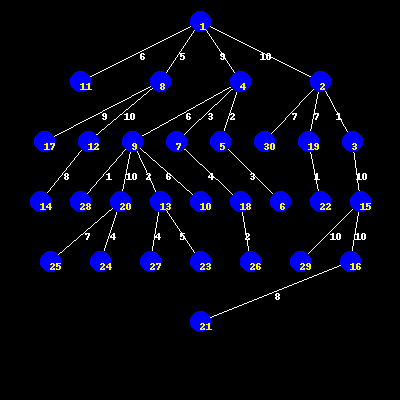
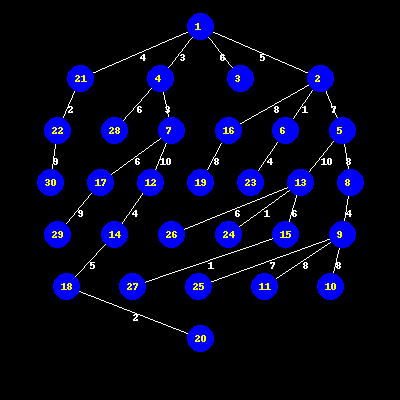
Bug fixes: Distinct random array, help errors and graph text not being very centred

diff --git a/Help.py b/Help.py
@@ -173,7 +173,7 @@ help_list = {
     """
     ```\n
     RAND->(num, low, high, type)\n
-    This command generates num numbers from low to high + 1. The type can be "RAND", "DISTINCT" or "OUTLIER". "RAND" just generates randomly, "DISTINCT" generates all distinct numbers and "OUTLIER" makes sure that high is in the list and that it is larger than all the other numbers in the list. "DISTINCT" will return error if there aren't enough numbers and "OUTLIER" may not have an outlier greater than the sum of all other numbers if the difference between high and low is too small. Note taht if num = 1 the command will return an integer instead of a list.\n
+    This command generates num numbers from low to high. The type can be "RAND", "DISTINCT" or "OUTLIER". "RAND" just generates randomly, "DISTINCT" generates all distinct numbers and "OUTLIER" makes sure that high is in the list and that it is larger than all the other numbers in the list. "DISTINCT" will return error if there aren't enough numbers and "OUTLIER" may not have an outlier greater than the sum of all other numbers if the difference between high and low is too small. Note that if num = 1 the command will return an integer instead of a list.\n
     E.g. RAND->(14,2,66,"RAND")\n
     ```
     """,

diff --git a/Parse.py b/Parse.py
@@ -240,6 +240,7 @@ class Miseri:
                 if action[2] - action[1] + 1 < 2000:
                     random_arr = list(range(action[1], action[2]+1))
                     random.shuffle(random_arr)
+                    random_arr = random_arr[:action[0]]
                 else:
                     taken = set()
                     for _ in range(action[0]):

diff --git a/Tree.py b/Tree.py
@@ -121,7 +121,7 @@ class Tree:
             draw.ellipse((cx-size//2, cy-size//2,cx+size//2, cy+size//2), "blue", "blue")
 
             text = ImageDraw.Draw(self.image)
-            text.text((cx-size//2+10, cy-size//2+10), str(cur), (255,255,0))
+            text.text((cx-5, cy-5), str(cur), (255,255,0))
 
             mp[depth[cur]] -= 1
 

diff --git a/README.md b/README.md
@@ -5,7 +5,7 @@ Created for no whatever reason, miseri can do a few fun tricks such as data gene
 
 Call ``$help`` for a list of commands
 
-The command ``$miseri-$`` can be used to do some cool stuff with miseri :) Just follow up with two \``` and whatever commands you want executed in between 
+The command ``$miseri-$`` can be used to do some cool stuff with miseri :) Just follow up with two \`\`\` and whatever commands you want executed in between 
 them for the interpreter to run them.
 
 If you are having trouble with ``$miseri-$``, ``$example`` can provide an example of its use: such as
